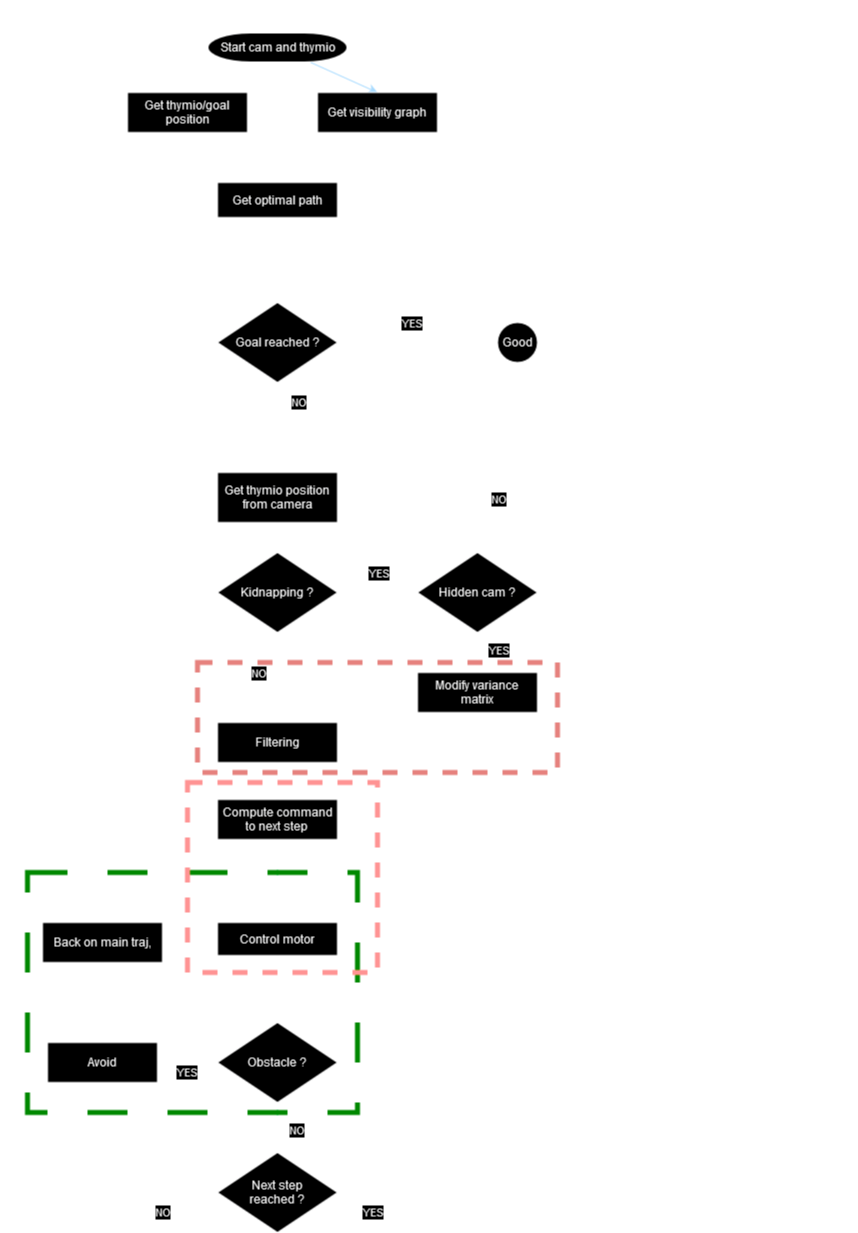
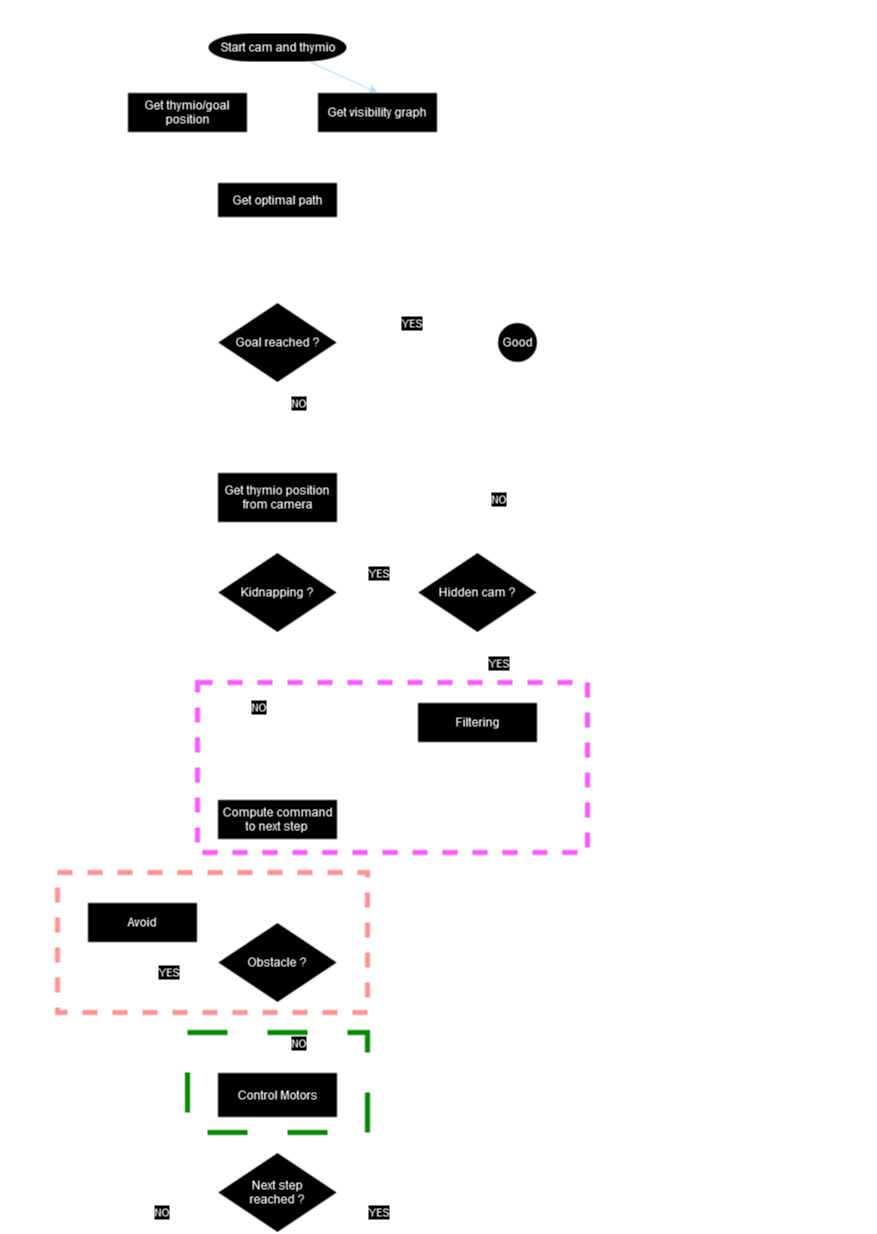
last modifications

diff --git a/README.md b/README.md
@@ -430,10 +430,15 @@ The result of the simulation can be seen in the graph below:
 
 The code used to do the simulation can be found inside the `test` directory, in the `local_navigation_test.py` file.
 
+## 5. Main loop 
+The main module is the code written at the end of this Jupyter Notebook. 
+
+Before actually writing the code, we planned the flow of the main loop operations, which is described in the following flowchart:
+<center><div><img src = "images\flowchart project.png" width = 500></div></center>
 
 ## Conclusion
 
-Incorporating OpenCV, we calibrated the camera, detected ArUco markers for localization, and applied perspective transformation for real-world mapping. Despite successes in accurate positioning, contour detection presented challenges, impacting precision. Nevertheless, our computer vision framework established the foundation for our robot's environment perception within the navigation system.
+Incorporating OpenCV, we calibrated the camera, detected ArUco markers for localization, and applied perspective transformation on the live camera feed. Despite successes in accurate positioning, contour detection presented challenges, which were solved successfully. Nevertheless, our computer vision framework established the foundation for our robot's environment perception within the navigation system.
 
 Our path planning strategy covered obstacle detection through image processing, visibility graph creation using simplified obstacle contours, and computing an optimal path via Dijkstra's algorithm. The path was calculated with respect to obstacles, ensuring effective navigation.
 
@@ -444,3 +449,14 @@ The local navigation submodule skillfully combined path following and obstacle a
 Our system encapsulates various modules harmoniously, leveraging computer vision for environment mapping, path planning for efficient navigation, filtering for robustness against sensor issues, and local navigation for adaptable real-time movement. Despite its comprehensive nature, potential challenges lie in tuning parameters for optimal performance across diverse scenarios and accounting for latency in the obstacle avoidance routine, especially when integrated into a physical Thymio.
 
 We've achieved a versatile robotics system, but continuous optimization and real-world testing remain essential for enhancing its adaptability and reliability in dynamic environments.
+
+## Limits of our system and possible improvements
+We have built a system that works well in a predefined environment, with strict conditions. We have had the possibility to see the limits of our system, that are related to those conditions and also things that may be improved.
+
+We used ArUco markers to define the field, which is something that is hardly applicable to real world applications. Our system is also sensitive to the lighting conditions, which is something that is hard to control in a real world application. Moreover, we used black polygons as our obstacles, and we need them to be convex to run our visibility graph generation, which is another limitation. If the obstacles are too close to each other, when we do the dilation of the graph nodes, they overlap and the system does not handle this, an improvement to this would be to merge the obstacles with a bigger dilation and make them overlap.
+
+In the local navigation part, one of the limits is the fact that when we switch to obstacle avoidance mode, as the static obstacles are 2D, the robot does not know if it goes over one of the static obstacles. 
+Another limit of the obstacle avoidance mode, is that if the obstacle is placed too close to one of the waypoints of the optimal path, the Thymio enters a cycle in which it tries to reach the point while avoiding the obstacle.
+We encountered some problems with the avoidance of local obstacles with non-regular shapes with the available sensors. Also, the absence of a lateral sensor makes the local navigation more difficult. 
+
+Regarding the pose estimation aspect, if the camera is covered and there is slippage of a wheel of the Thymio, the Kalman estimation loses its precision. To solve this problem, data from other sensors can be incorporated, such as an IMU, which is present on the Thymio.
